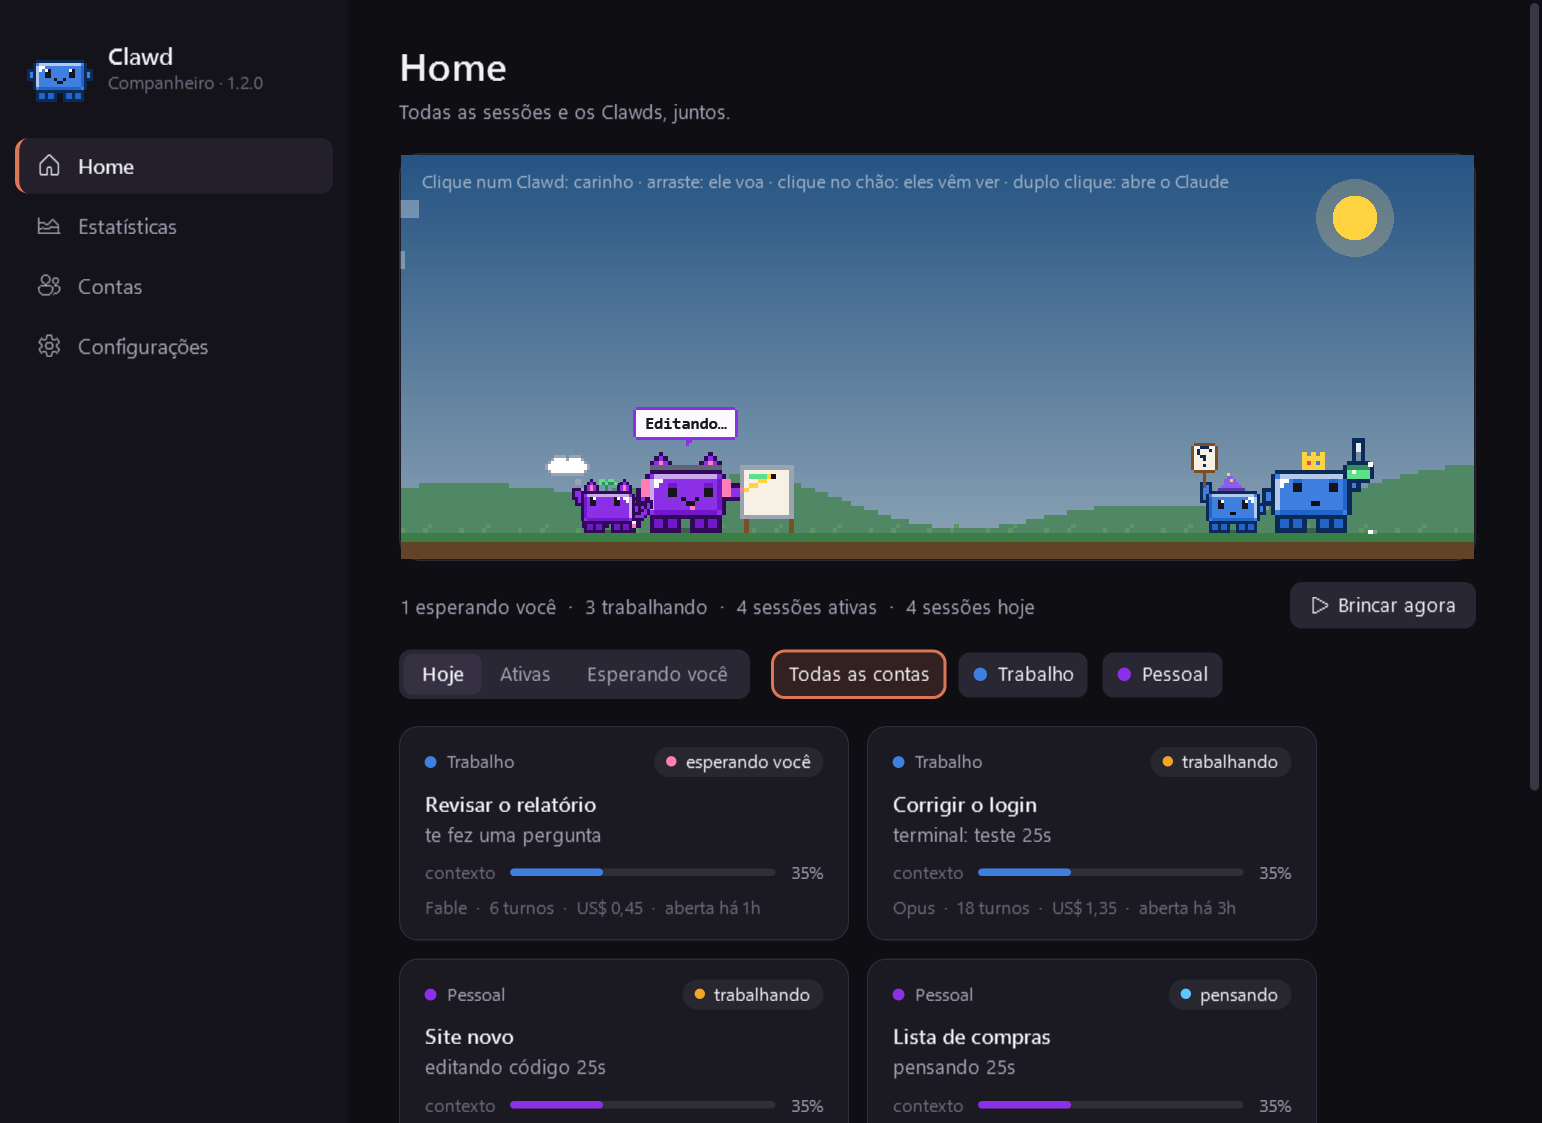
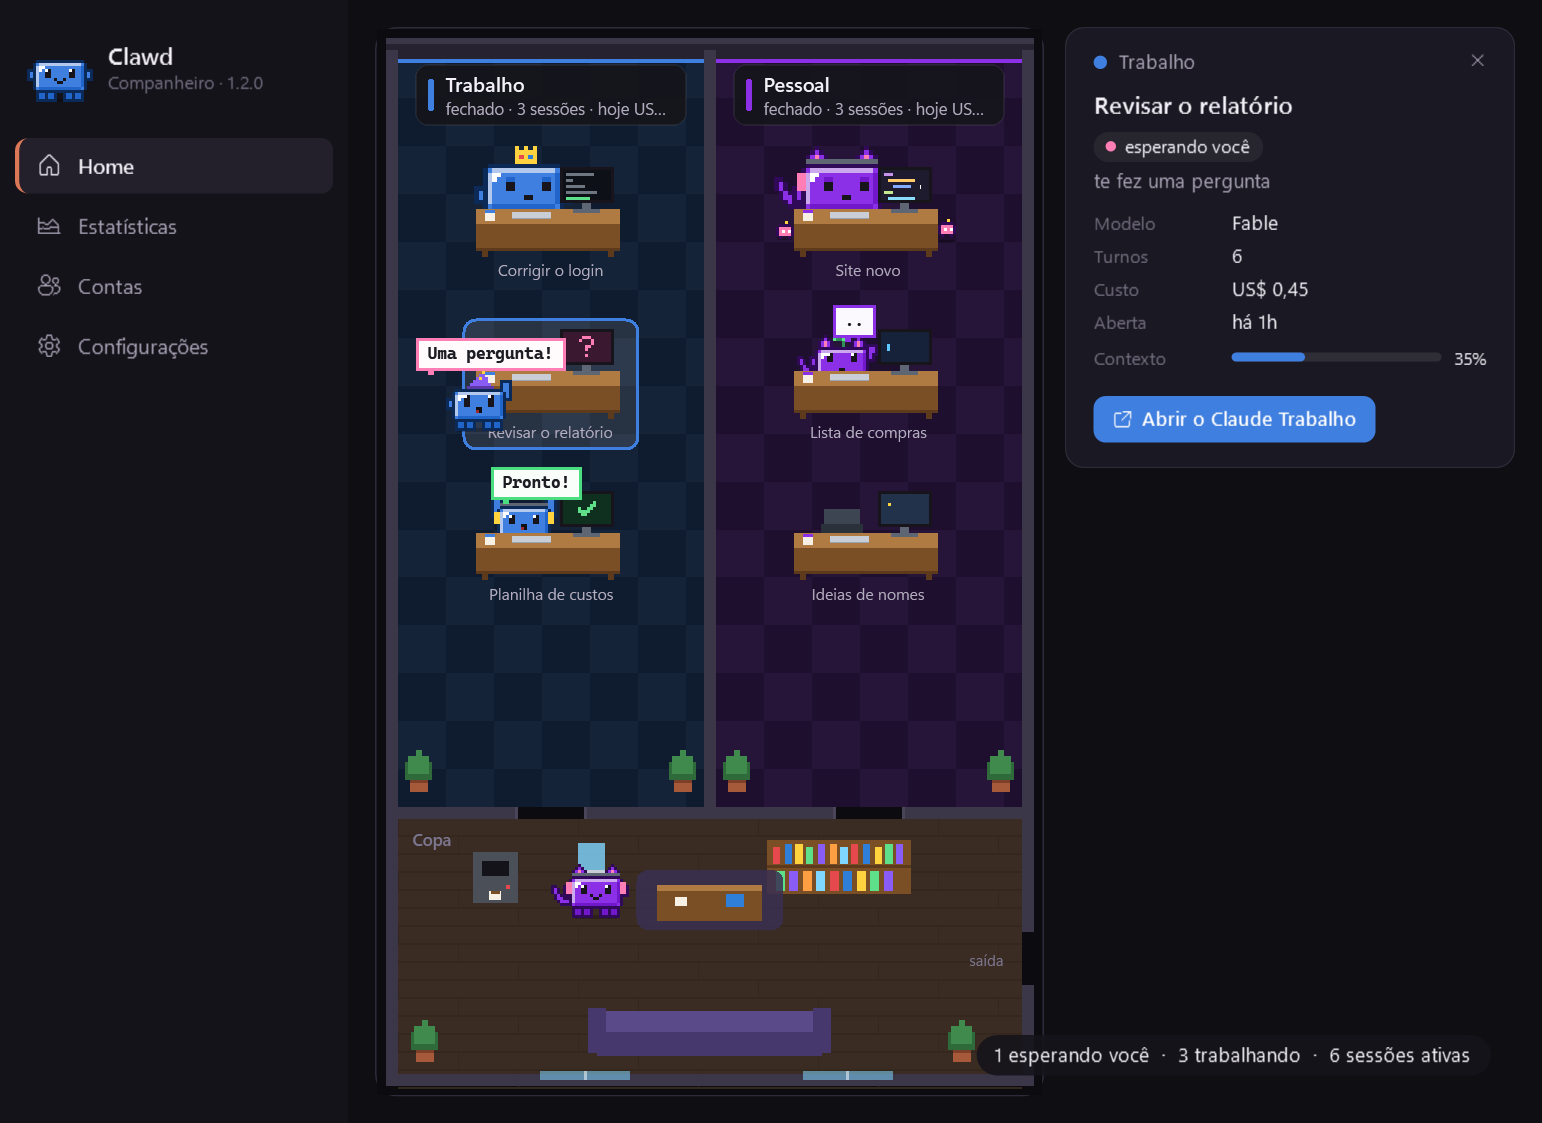
Foto do escritório no README; resumo no canto esquerdo
Claude-Session: https://claude.ai/code/session_01BHZqprp2Sfi88xAyQf52WH

diff --git a/desktop/ClawdHome.cs b/desktop/ClawdHome.cs
@@ -31,7 +31,7 @@ namespace ClawdDesktop
             Children.Add(frame);
 
             // o resumo, numa pílula no canto de cima
-            var pill = new Border { Background = Pal.B("#15131a", 0.88), CornerRadius = new CornerRadius(14), Padding = new Thickness(12, 5, 14, 6), HorizontalAlignment = HorizontalAlignment.Right, VerticalAlignment = VerticalAlignment.Bottom, Margin = new Thickness(0, 0, 16, 14), IsHitTestVisible = false };
+            var pill = new Border { Background = Pal.B("#15131a", 0.88), CornerRadius = new CornerRadius(14), Padding = new Thickness(12, 5, 14, 6), HorizontalAlignment = HorizontalAlignment.Left, VerticalAlignment = VerticalAlignment.Bottom, Margin = new Thickness(14, 0, 0, 14), IsHitTestVisible = false };
             summary.TextWrapping = TextWrapping.NoWrap;
             pill.Child = summary;
             Children.Add(pill);
